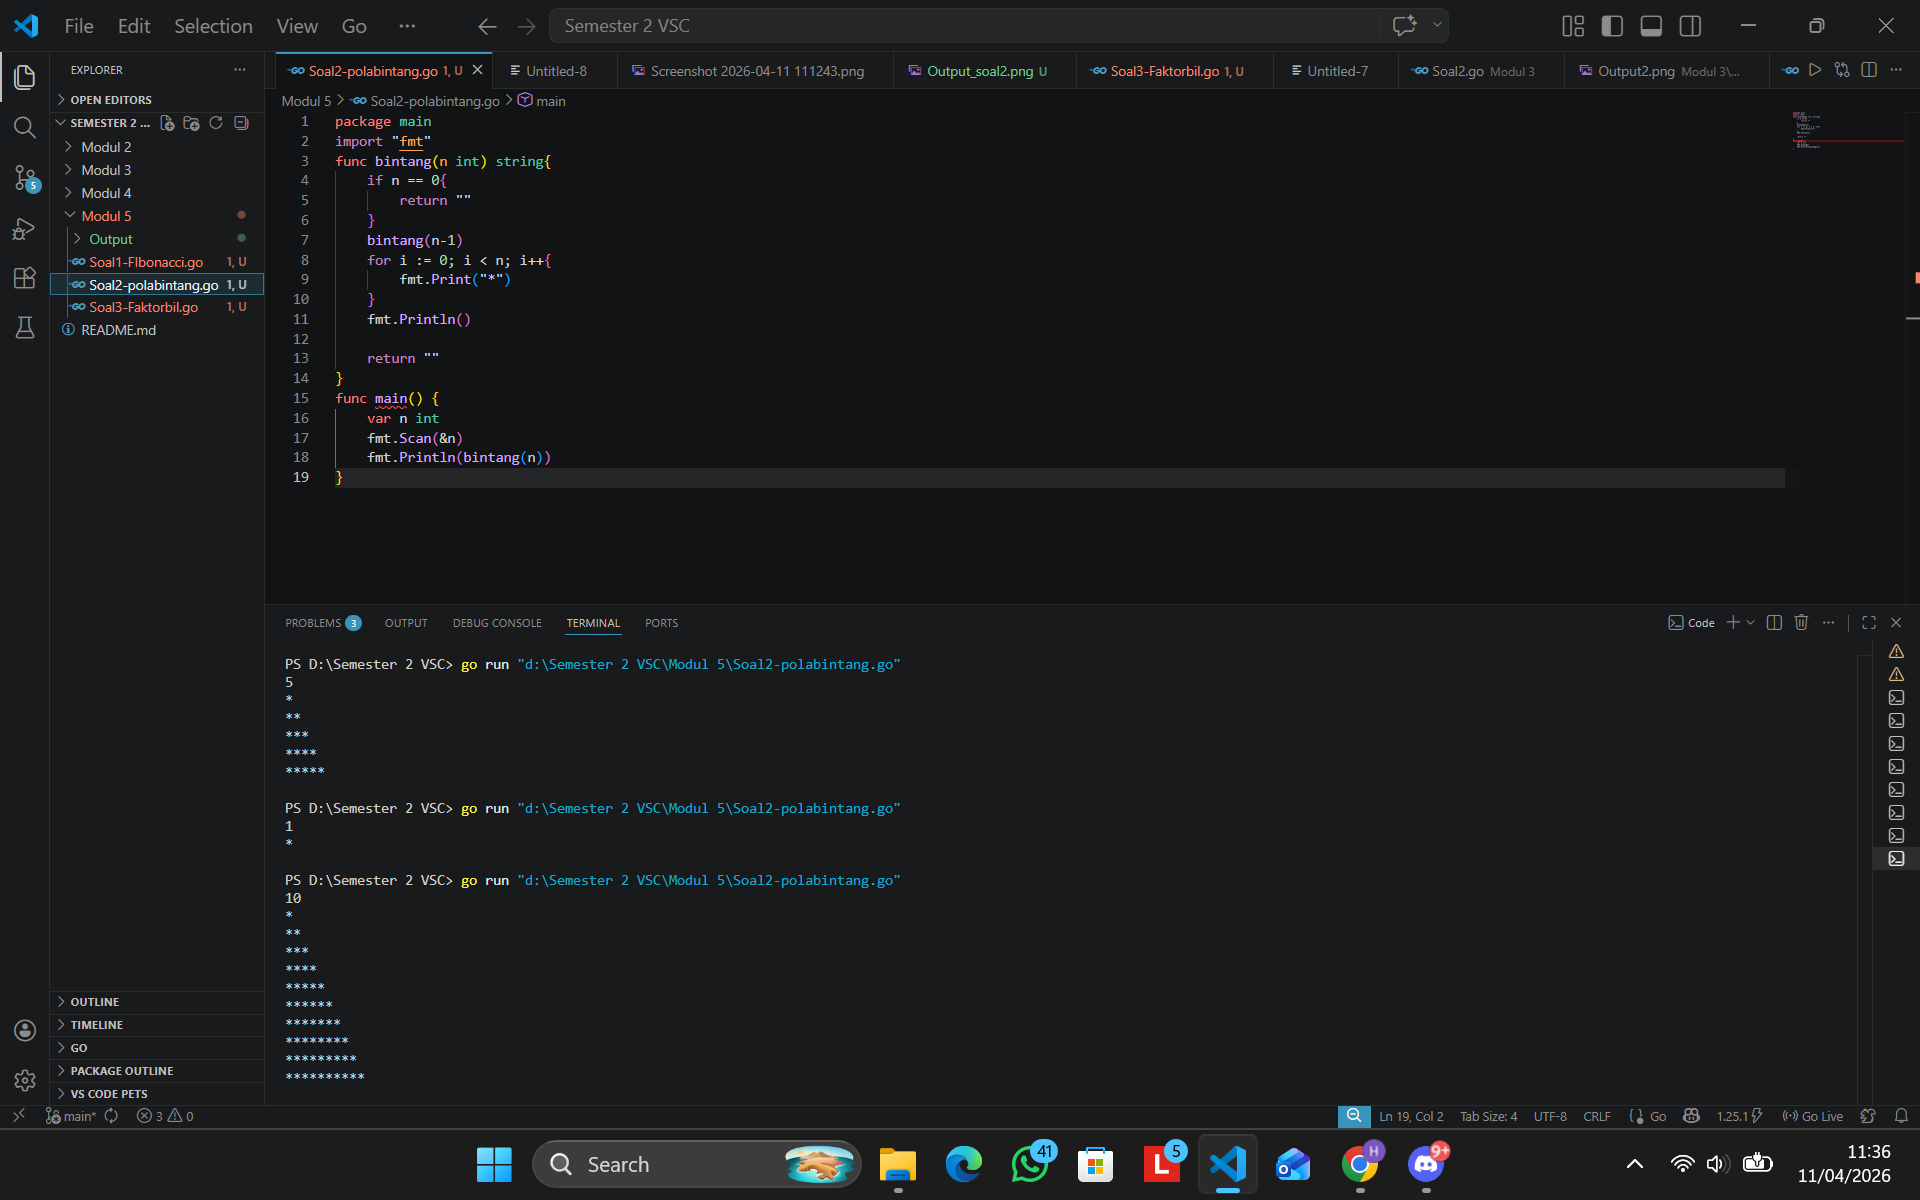
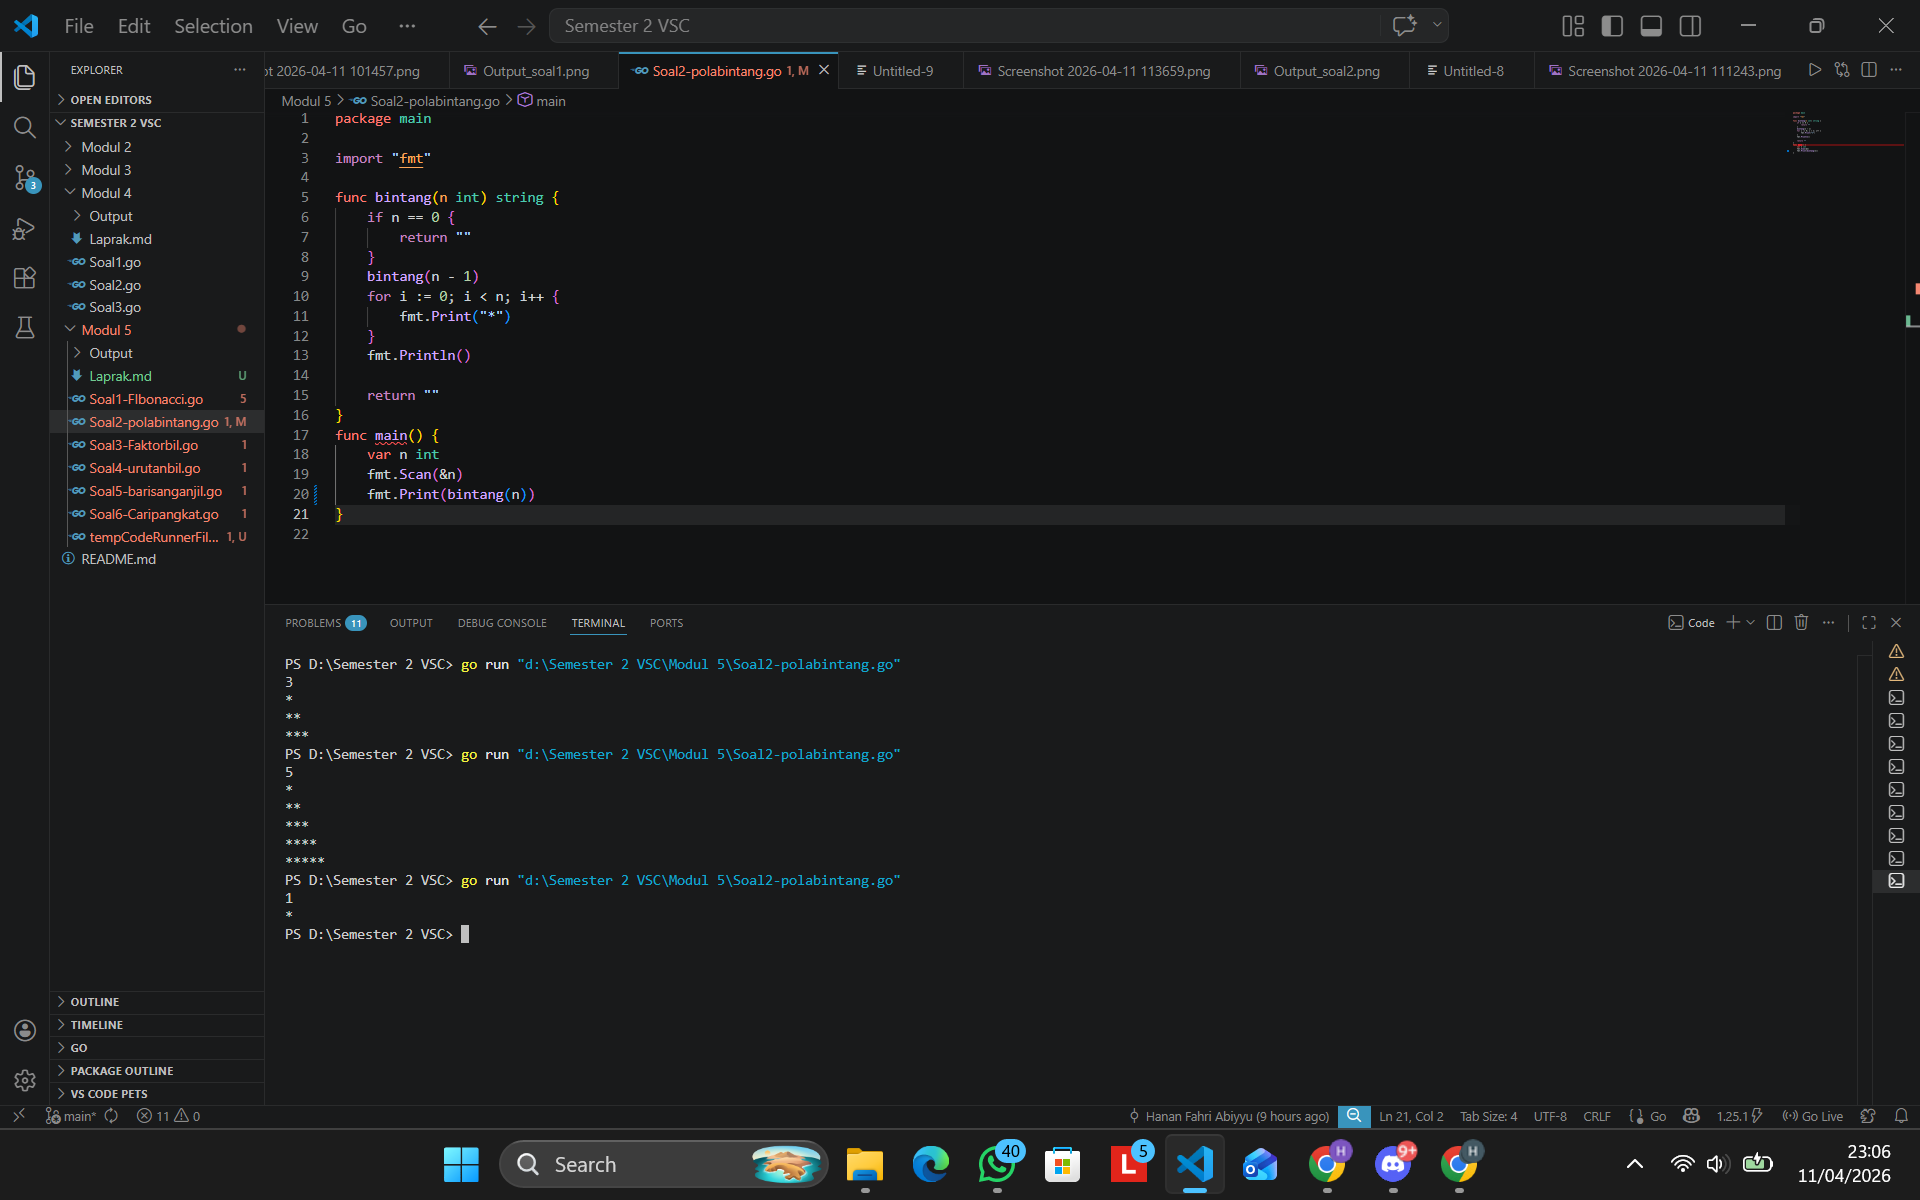
update

diff --git a/Modul 5/Soal2-polabintang.go b/Modul 5/Soal2-polabintang.go
@@ -17,5 +17,5 @@ func bintang(n int) string {
 func main() {
 	var n int
 	fmt.Scan(&n)
-	fmt.Println(bintang(n))
+	fmt.Print(bintang(n))
 }

diff --git a/Modul 5/tempCodeRunnerFile.go b/Modul 5/tempCodeRunnerFile.go
@@ -1,0 +1,1 @@
+bintang(n - 1)

diff --git a/Modul 5/Laprak.md b/Modul 5/Laprak.md
@@ -1,0 +1,192 @@
+# <h1 align="center">Laporan Praktikum Modul 5 </h1>
+<p align="center">[Hanan Fahri Abiyyu] - [109082500131]</p>
+
+## Unguided
+
+### 1. [Soal Modul 5]
+#### soal1-Fibonacci.go
+
+```go
+package main
+
+import "fmt"
+
+func fibo(n int) int {
+	if n == 0 {
+		return 0
+	}
+	if n == 1 {
+		return 1
+	}
+	return fibo(n-1) + fibo(n-2)
+}
+func main() {
+	var angka int
+	fmt.Scan(&angka)
+	for i := 0; i <= angka; i++ {
+		fmt.Print(fibo(i), " ")
+	}
+}
+
+```
+
+### 2. [Soal  Modul 5]
+#### soal2-polabintang.go
+
+```go
+package main
+
+import "fmt"
+
+func bintang(n int) string {
+	if n == 0 {
+		return ""
+	}
+	bintang(n - 1)
+	for i := 0; i < n; i++ {
+		fmt.Print("*")
+	}
+	fmt.Println()
+
+	return ""
+}
+func main() {
+	var n int
+	fmt.Scan(&n)
+	fmt.Print(bintang(n))
+}
+
+```
+
+### 3. [Soal Modul 5]
+#### soal3-Faktorbil.go
+
+```go
+package main
+
+import "fmt"
+
+func faktor(x int, i int) {
+	if i > x {
+		return
+	} else {
+		if x%i == 0 {
+			fmt.Print(i, " ")
+		}
+		faktor(x, i+1)
+	}
+}
+func main() {
+	var bil int
+	fmt.Scan(&bil)
+	faktor(bil, 1)
+}
+
+```
+
+### 4. [Soal Modul 5]
+#### soal4-urutanbil.go
+
+```go
+package main
+
+import "fmt"
+
+func urutan(x int) {
+	if x == 1 {
+		fmt.Print(1, " ")
+		return
+	} else {
+		fmt.Print(x, " ")
+		urutan(x - 1)
+		fmt.Print(x, " ")
+	}
+}
+func main() {
+	var bilangan int
+	fmt.Scan(&bilangan)
+	urutan(bilangan)
+}
+
+```
+
+### 5. [Soal Modul 5]
+#### soal5-barisanganjil.go
+
+```go
+package main
+
+import "fmt"
+
+func ganjil(x int, i int) {
+	if i > x {
+		return
+	} else {
+
+		fmt.Print(i, " ")
+		ganjil(x, i+2)
+
+	}
+}
+func main() {
+	var angka int
+	fmt.Scan(&angka)
+	ganjil(angka, 1)
+}
+
+```
+
+### 6. [Soal Modul 5]
+#### soal6-Caripangkat.go
+
+```go
+package main
+
+import "fmt"
+
+func pangkat(x, y int) int {
+	if y == 0 {
+		return 1
+	}
+	return x * pangkat(x, y-1)
+
+}
+func main() {
+	var x, y int
+	fmt.Scan(&x, &y)
+	fmt.Print(pangkat(x, y))
+}
+
+```
+
+### Output Unguided :
+
+##### Output
+
+##### Soal 1
+
+![Screenshoot Output Soal 1](https://github.com/hananfahri78/109082500131_Hanan-Fahri-Abiyyu/blob/main/Modul%205/Output/Output_soal1.png)
+Membuat sebuah program menghitung deret Fibonacci, yang definisinya adalah sebuah deret dengan nilai suku ke-0 dan ke-1 adalah 0 dan 1, dan nilaisuku ke-n selanjutnya adalah hasil penjumlahan dua suku sebelumnya. Pada program ini digunakannya fungsi rekursif untuk menjadi tempat pemanggilan  dari suatu nilai input yang dilakukan pada function main (utama), serta dicetak hasil dengan memanggil function rekursif yang telah dibuat, ke dalam main fungsi. Contoh suku n = 2, (Sn - 1) + (Sn - 2). Nilai n suku ke-2 hasil dari penjumlahan dua suku sebelumnya yang berarti 0 dan 1, hasil n = 2 adalah 1.
+
+##### Soal 2
+
+![Screenshoot Output Soal 2](https://github.com/hananfahri78/109082500131_Hanan-Fahri-Abiyyu/blob/main/Modul%205/Output/Output_soal2.png)
+Pada program nomor 2, diperintahkan membuat program mencetak pola bintang segitiga siku-siku sesuai dari input user. Menggunakan fungsi rekursif untuk tempat penghitungan dan pembentukan pola bintang, yang kemudian akan dipanggil ke func main untuk pengeksekusian yang akan menghasilkan output. Pada program ini digunakannya sebuah perulangan dan percabangan, perulangan berfungsi sebagai pencetakan bintang sebanyak N kali, percabangan digunakan untuk mengecek apakah nilai sama dengan 0 atau bukan, jika bukan lanjut ke perulangan kedua dan seterusnya sampai 0. Pada fungsi bintang, perhitungan pola digunakan dengan cara menghitung dari nilai awal/input, masuk ke variabel n sebagai isian nilai di function bintang. Selanjutnya akan dihitung dari besar ke kecil (turun), program terus mengulang sampai nilai n = 0, kemudian dibalik urutannya menjadi kecil ke besar(naik) dengan menggunakan bintang(x-1) sebelum for. Namun, saat n bernilai 0 tetap akan mencetak satu baris kosong sebelum berhentinya program.
+
+Pada bagian func main, input variabel dengan tipe data integer, serta mencetak hasil segitiga dengan memanggil fungsi bintang di dalam fmt.Println/percetakan.
+
+##### Soal 3
+
+![Screenshoot Output Soal 3](https://github.com/hananfahri78/109082500131_Hanan-Fahri-Abiyyu/blob/main/Modul%205/Output/Output_soal3.png)
+Menampilkan faktor bilangan dari suatu N, atau bilangan yang apa saja yang habis membagi N. Untuk program ini bentuk pengimplementasian dari rekursif berupa prosedur rekursif. 
+##### Soal 4
+
+![Screenshoot Output Soal 4](https://github.com/hananfahri78/109082500131_Hanan-Fahri-Abiyyu/blob/main/Modul%205/Output/Output_soal4.png)
+
+##### Soal 5
+
+![Screenshoot Output Soal 5](https://github.com/hananfahri78/109082500131_Hanan-Fahri-Abiyyu/blob/main/Modul%205/Output/Output_soal5.png)
+
+##### Soal 6
+
+![Screenshoot Output Soal 6](https://github.com/hananfahri78/109082500131_Hanan-Fahri-Abiyyu/blob/main/Modul%205/Output/Output_soal6.png)
